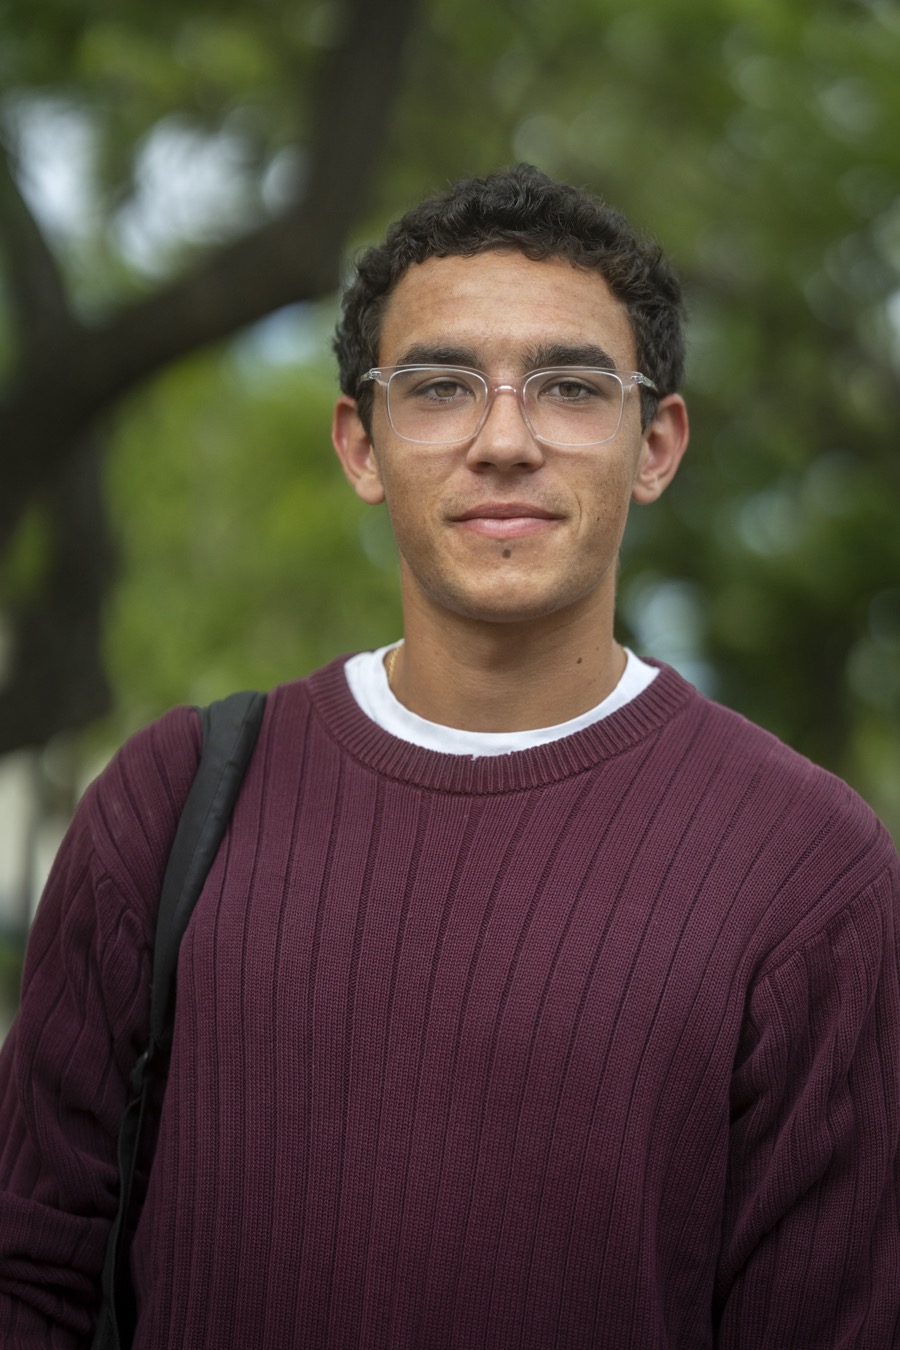
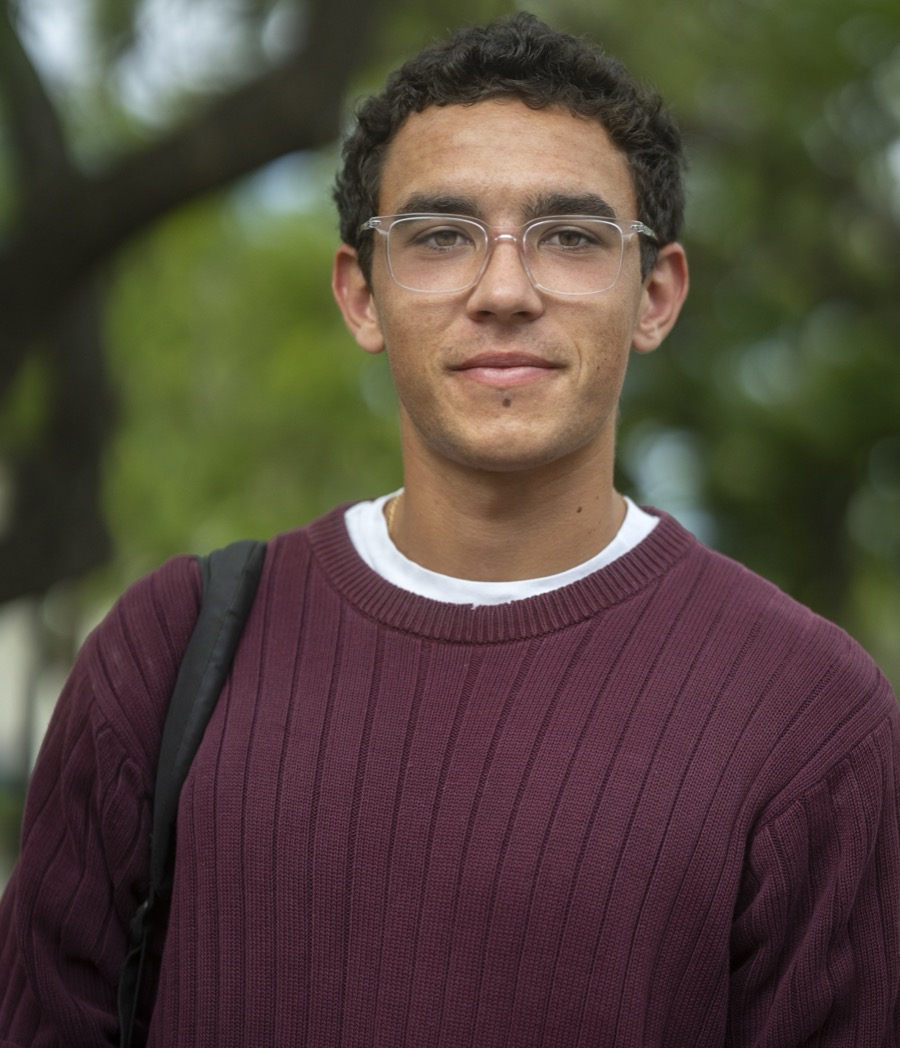
change photo size

diff --git a/index.html b/index.html
@@ -58,7 +58,7 @@
             sizes="(max-width: 640px) 60vw, 260px"
             alt="Portrait of Henry Gaston"
             width="900"
-            height="1350"
+            height="1048"
             loading="eager"
           />
         </figure>

diff --git a/assets/css/style.css b/assets/css/style.css
@@ -152,7 +152,7 @@ a:hover {
 .intro__photo {
   flex: 0 0 auto;
   margin: 0.4rem 0 0;
-  width: clamp(140px, 30vw, 220px);
+  width: clamp(120px, 26vw, 190px);
 }
 
 .intro__photo img {
